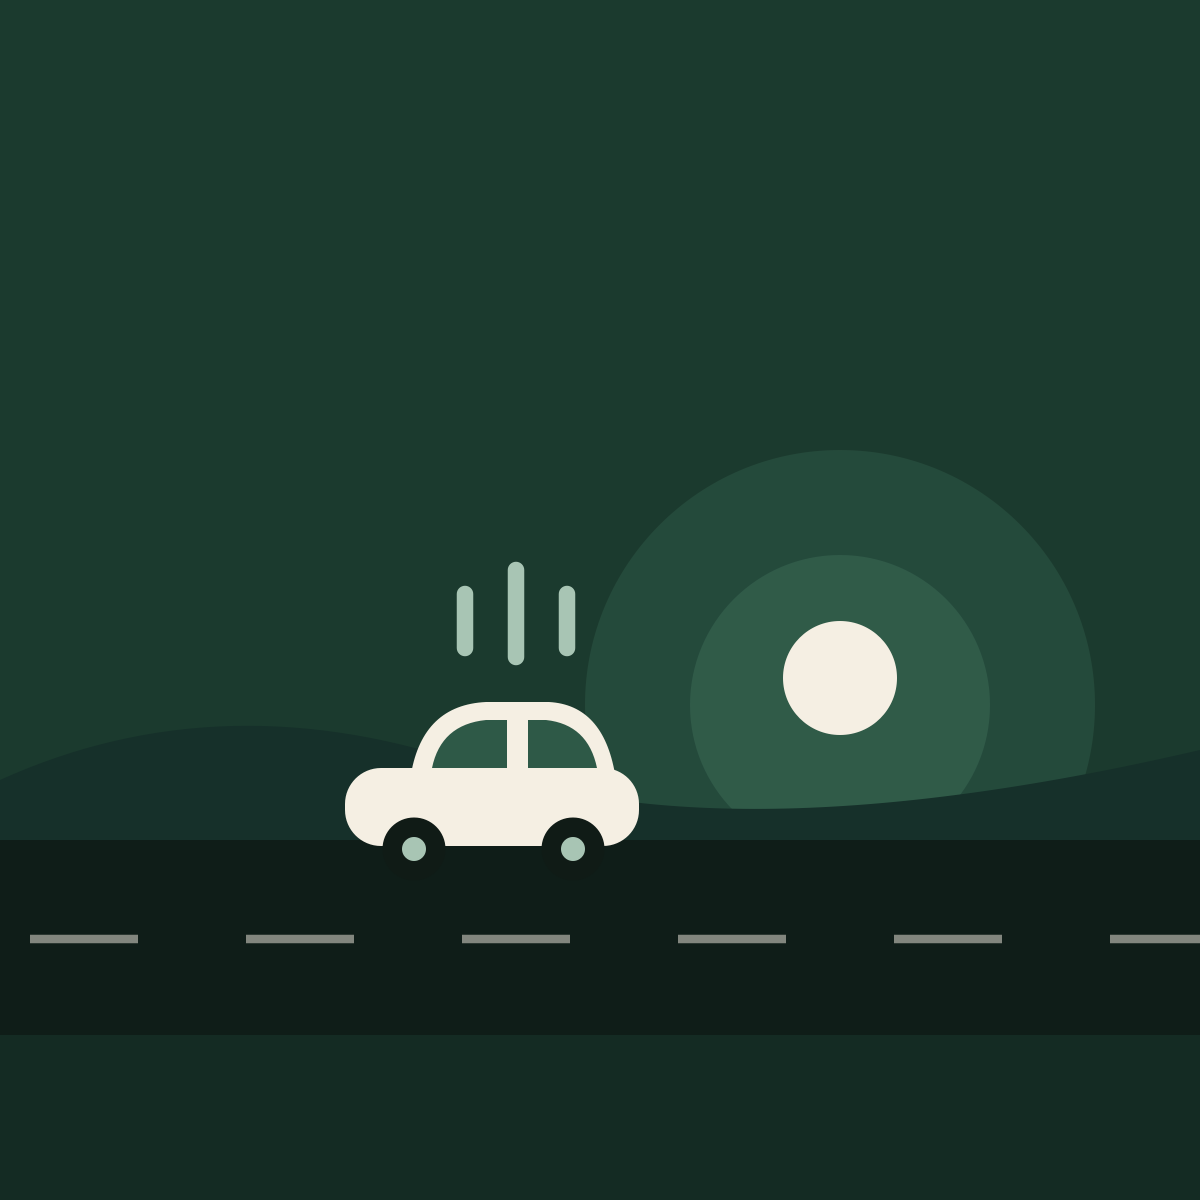
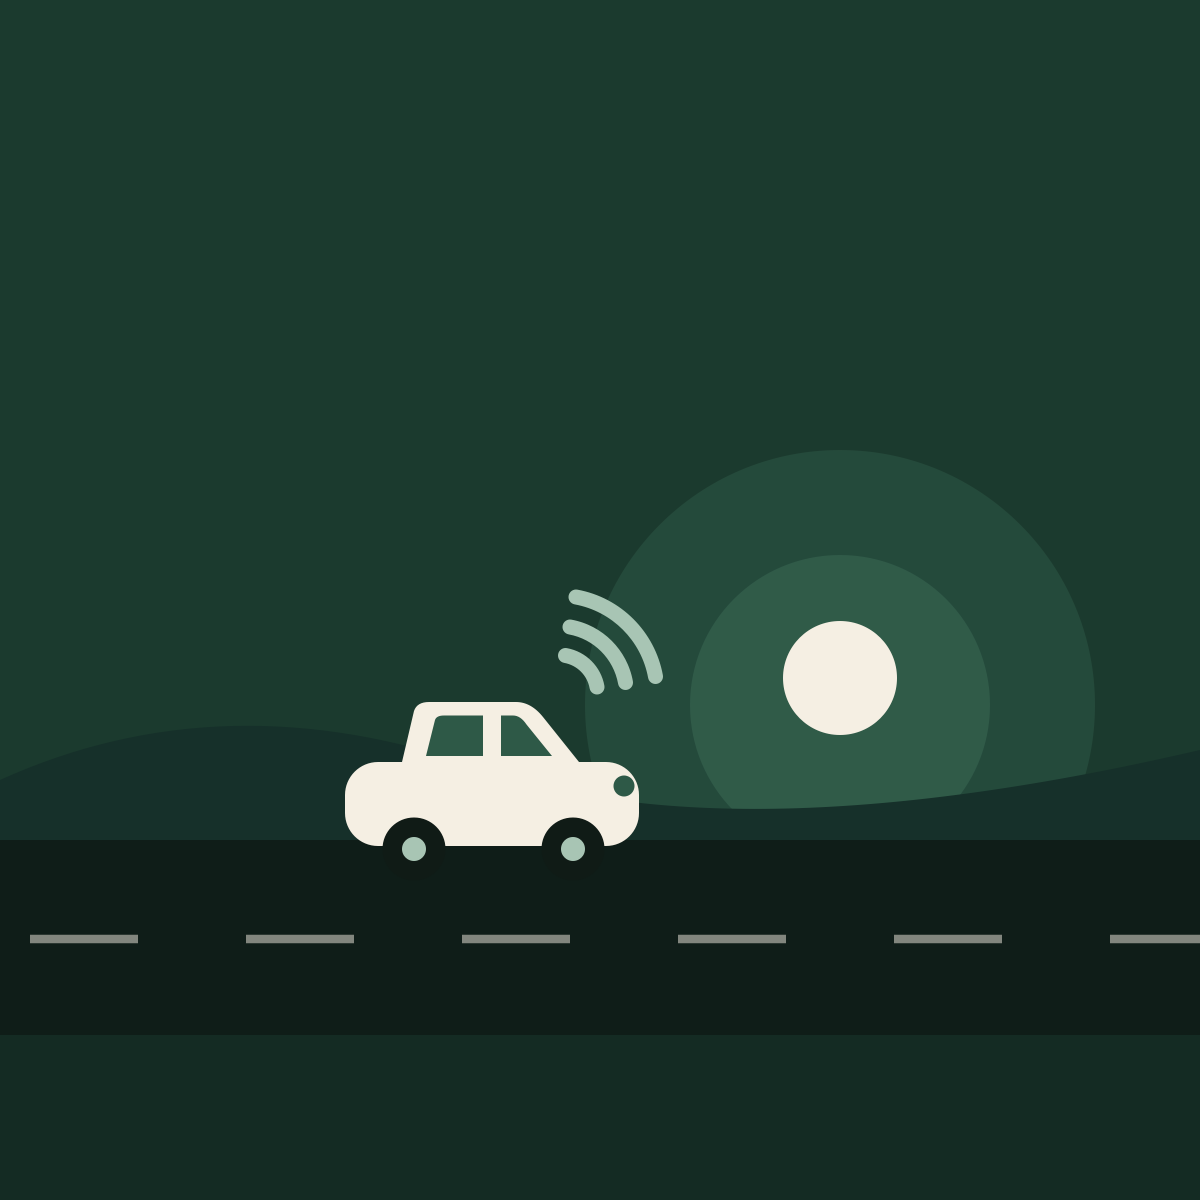
Fix hero car: faces forward, speaks in sound waves
The car now unambiguously faces right (slanted front windshield,
headlight) so the streaming road reads as forward motion. The
rising tick marks are replaced with speaker-style arcs radiating
from the cabin, pulsing outward — the universal "sound" glyph.
App's static funnel image regenerated to match.

Changed region(s): [[0.2775, 0.4625, 0.555, 0.6783]]

diff --git a/web/index.html b/web/index.html
@@ -39,22 +39,23 @@
   </g>
   <!-- roadside below -->
   <rect y="690" width="800" height="110" fill="#142B23"/>
-  <!-- car -->
+  <!-- car, facing right -->
   <g class="fb-car">
-    <rect x="230" y="512" width="196" height="52" rx="24" fill="#F5EFE3"/>
-    <path d="M274 516 Q 282 470 324 468 L 366 468 Q 402 470 410 516 Z" fill="#F5EFE3"/>
-    <path d="M288 512 Q 294 483 324 480 L 338 480 L 338 512 Z" fill="#2E5947"/>
-    <path d="M352 480 L 364 480 Q 392 483 398 512 L 352 512 Z" fill="#2E5947"/>
+    <rect x="230" y="508" width="196" height="56" rx="22" fill="#F5EFE3"/>
+    <path d="M268 508 L 276 474 Q 278 468 286 468 L 344 468 Q 354 468 362 478 L 386 508 Z" fill="#F5EFE3"/>
+    <path d="M284 504 L 290 480 Q 291 477 296 477 L 322 477 L 322 504 Z" fill="#2E5947"/>
+    <path d="M334 477 L 342 477 Q 347 477 351 483 L 368 504 L 334 504 Z" fill="#2E5947"/>
+    <circle cx="416" cy="524" r="7" fill="#2E5947"/>
     <circle cx="276" cy="566" r="21" fill="#101B16"/>
     <circle cx="276" cy="566" r="8" fill="#A8C5B4"/>
     <circle cx="382" cy="566" r="21" fill="#101B16"/>
     <circle cx="382" cy="566" r="8" fill="#A8C5B4"/>
   </g>
-  <!-- conversation rising from the car -->
-  <g stroke="#A8C5B4" stroke-width="11" stroke-linecap="round" fill="none">
-    <path class="fb-word fb-word2" d="M344 438 L 344 380"/>
-    <path class="fb-word fb-word1" d="M310 432 L 310 396"/>
-    <path class="fb-word fb-word3" d="M378 432 L 378 396"/>
+  <!-- conversation: sound waves from the cabin -->
+  <g stroke="#A8C5B4" stroke-width="10" stroke-linecap="round" fill="none">
+    <path class="fb-wave fb-wave1" d="M377 437 A 26 26 0 0 1 398 458"/>
+    <path class="fb-wave fb-wave2" d="M380 418 A 46 46 0 0 1 417 455"/>
+    <path class="fb-wave fb-wave3" d="M384 398 A 66 66 0 0 1 437 451"/>
   </g>
 </svg></div>
   </div>

diff --git a/web/style.css b/web/style.css
@@ -52,18 +52,17 @@ strong { color: inherit; }
   0%, 100% { transform: translateY(0); }
   50% { transform: translateY(-4px); }
 }
-.art-hero .fb-word { opacity: 0; animation: fb-rise 2.6s ease-out infinite; }
-.art-hero .fb-word2 { animation-delay: 0.45s; }
-.art-hero .fb-word3 { animation-delay: 0.9s; }
-@keyframes fb-rise {
-  0% { opacity: 0; transform: translateY(14px); }
-  20% { opacity: 0.9; }
-  55% { opacity: 0; transform: translateY(-16px); }
-  100% { opacity: 0; transform: translateY(-16px); }
+.art-hero .fb-wave { opacity: 0.25; animation: fb-speak 1.8s ease-in-out infinite; }
+.art-hero .fb-wave2 { animation-delay: 0.22s; }
+.art-hero .fb-wave3 { animation-delay: 0.44s; }
+@keyframes fb-speak {
+  0%, 100% { opacity: 0.25; }
+  30% { opacity: 1; }
+  60% { opacity: 0.25; }
 }
 @media (prefers-reduced-motion: reduce) {
-  .art-hero .fb-dashes, .art-hero .fb-car, .art-hero .fb-word { animation: none; }
-  .art-hero .fb-word { opacity: 1; }
+  .art-hero .fb-dashes, .art-hero .fb-car, .art-hero .fb-wave { animation: none; }
+  .art-hero .fb-wave { opacity: 1; }
 }
 
 /* --- sections --- */